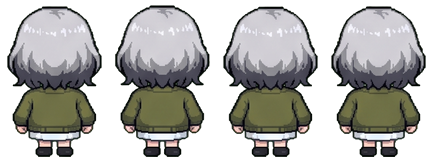
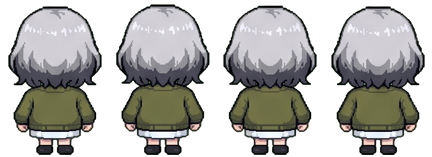
정면 정지를 새 걷기 얼굴에 맞춘 그림으로 교체 (숨쉬기는 상체 1px 내림으로 생성)
- 크기 기준을 예전 base 시트 정지(_ref, 게임에는 안 씀)로 두어 다른 동작 크기는 그대로 유지
- clean_chroma: breath 옵션, 이름이 _로 시작하는 동작은 출력 안 함

Claude-Session: https://claude.ai/code/session_01MBgVgKbFxkEXND4zuEcjdV

diff --git a/tools/sprite_cleanup/clean_chroma.py b/tools/sprite_cleanup/clean_chroma.py
@@ -281,16 +281,38 @@ def main(cfg_path, out_dir):
                                     "fps": anim.get("fps", 6), "loop": anim.get("loop", True)}
 
     for anim in cfg["animations"]:
+        if anim["name"].startswith("_"):   # 크기 기준 전용 (게임에 안 씀)
+            continue
         fr = scaled[anim["name"]]
         write(anim["name"], fr, anim)
         if anim.get("mirror_as"):
             write(anim["mirror_as"], [f.transpose(Image.FLIP_LEFT_RIGHT) for f in fr], anim)
+        if anim.get("breath"):
+            for nm in (anim["name"], anim.get("mirror_as")):
+                if nm:
+                    breathe(out / f"{nm}.png", len(fr), cell_w, cell_h, anim["breath"])
         if anim.get("steady_head"):
             for nm in (anim["name"], anim.get("mirror_as")):
                 if nm:
                     steady_head(out / f"{nm}.png", len(fr), cell_w, cell_h, anim["steady_head"])
     (out / "frames.json").write_text(json.dumps(meta, ensure_ascii=False, indent=2), encoding="utf-8")
     print(f"칸 크기 {cell_w}x{cell_h}, 동작 {len(meta['animations'])}개")
+
+
+def breathe(path, n, cw, ch, idx):
+    """숨쉬기: idx 칸들은 다리 위(원피스 밑단 위) 전체를 1px 아래로 내림."""
+    sheet = Image.open(path).convert("RGBA")
+    out = sheet.copy()
+    for i in idx:
+        a = np.array(sheet.crop((i * cw, 0, i * cw + cw, ch)))
+        al = a[..., 3] > 128
+        white = al & (a[..., 0] > 215) & (a[..., 1] > 215) & (a[..., 2] > 215)
+        hem = np.nonzero(white.sum(1) >= 6)[0].max() + 1
+        b = a.copy()
+        b[1:hem + 1] = a[0:hem]
+        b[0] = 0
+        out.paste(Image.fromarray(b, "RGBA"), (i * cw, 0))
+    out.save(path)
 
 
 def steady_head(path, n, cw, ch, opt):
